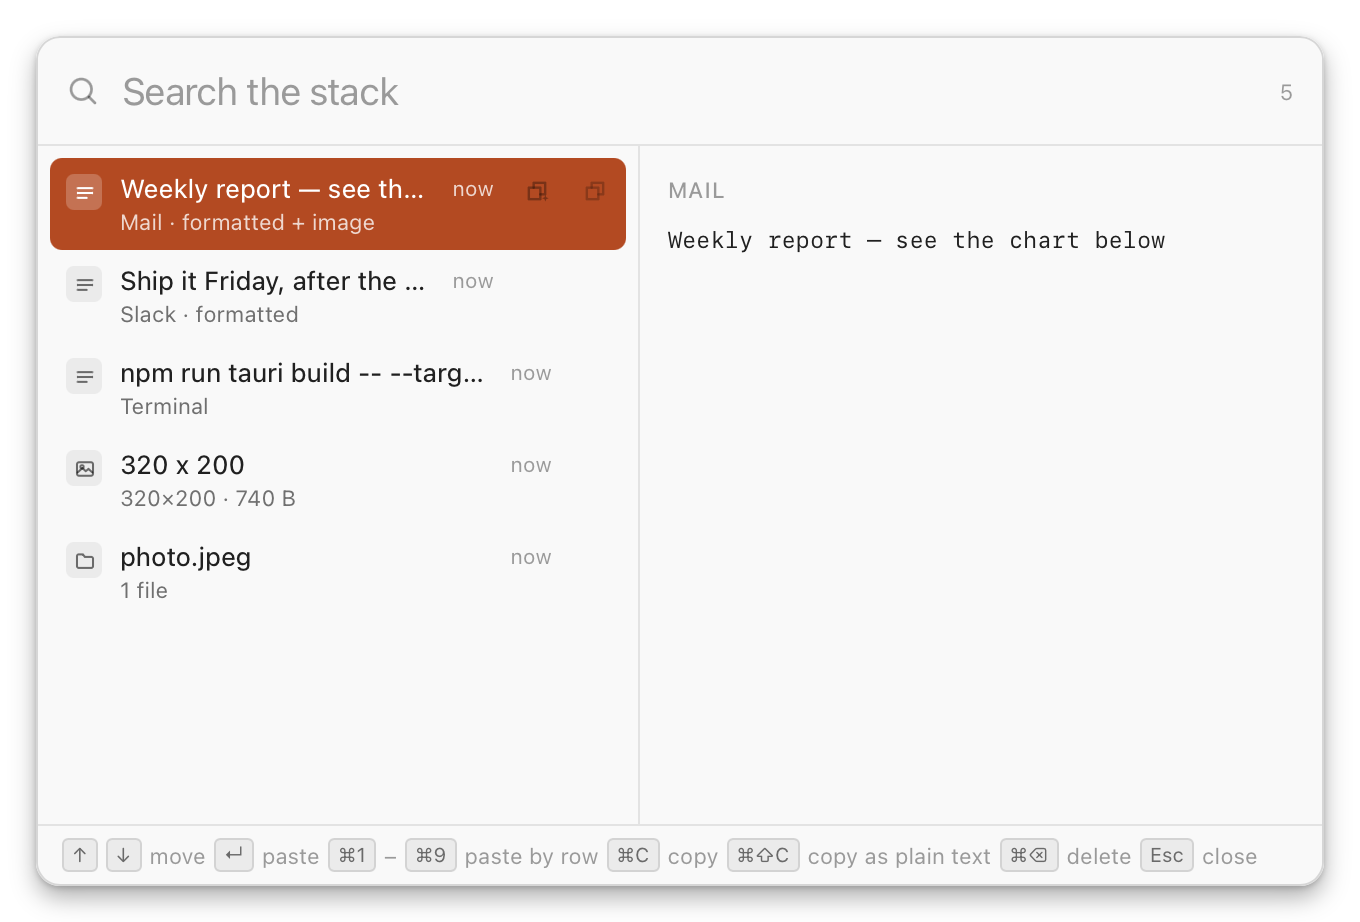
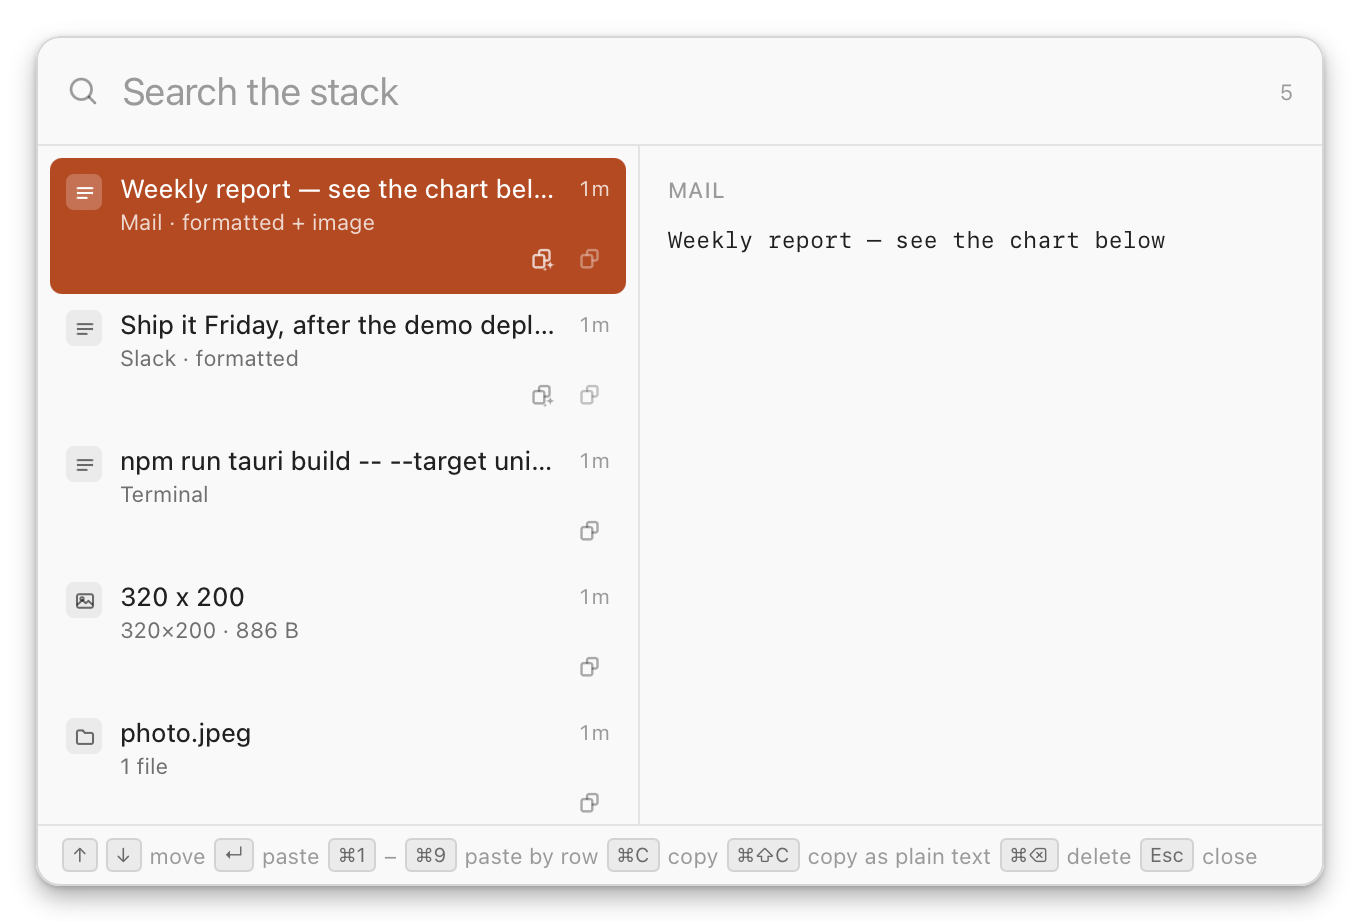
chore: release v0.6.0

diff --git a/src/styles/picker.css b/src/styles/picker.css
@@ -177,11 +177,18 @@ body {
 
 .row {
   display: flex;
-  align-items: flex-start;
-  gap: 9px;
+  flex-direction: column;
+  gap: 3px;
   padding: 7px 8px;
   border-radius: var(--radius-row);
   transition: background-color 90ms ease;
+}
+
+/* Top line: badge, content preview, meta. */
+.row__main {
+  display: flex;
+  align-items: flex-start;
+  gap: 9px;
 }
 
 .row:hover {
@@ -268,23 +275,31 @@ body {
   opacity: 0.75;
 }
 
-/* Copy-to-clipboard buttons: hidden until the row is hovered or selected,
-   the way Finder reveals row actions. They sit between the text and the
-   timestamp, so the meta column stays put as they appear. */
+/* Copy-to-clipboard buttons: anchored to the row's bottom-right, always
+   rendered whatever the length of the content above, so their position is
+   stable and they never hide a long preview behind a hover-reveal. */
+.row__actions {
+  display: flex;
+  justify-content: flex-end;
+  align-items: center;
+  gap: 2px;
+  min-height: 20px;
+  margin-top: -1px;
+}
+
 .row__copy {
   flex: none;
   display: grid;
   place-items: center;
   width: 22px;
-  height: 22px;
-  margin: -1px -2px 0 0;
+  height: 20px;
   border: none;
   border-radius: 5px;
   background: transparent;
   color: var(--text-tertiary);
-  opacity: 0;
+  opacity: 0.85;
   cursor: default;
-  transition: opacity 90ms ease, background-color 90ms ease;
+  transition: background-color 90ms ease;
 }
 
 .row__copy svg {
@@ -295,16 +310,8 @@ body {
 
 /* Both row actions share the two-sheet copy glyph; the rich one carries
    sparkles and the plain one stays bare, so the pair reads as one action with
-   two outcomes. The plain one sits a step dimmer than its sparkle twin, but
-   only once the row reveals its actions — a standalone opacity here would
-   override the hidden state above. */
-.row:hover .row__copy,
-.row[aria-selected="true"] .row__copy {
-  opacity: 0.85;
-}
-
-.row:hover .row__copy--plain,
-.row[aria-selected="true"] .row__copy--plain {
+   two outcomes. The plain one sits a step dimmer than its sparkle twin. */
+.row__copy--plain {
   opacity: 0.6;
 }
 
@@ -314,23 +321,34 @@ body {
   opacity: 1;
 }
 
+/* The selected row is an accent block, so its always-visible buttons switch
+   to white to stay legible on it. */
+.row[aria-selected="true"] .row__copy {
+  color: rgba(255, 255, 255, 0.85);
+}
+
+.row[aria-selected="true"] .row__copy--plain {
+  color: rgba(255, 255, 255, 0.6);
+}
+
 .row[aria-selected="true"] .row__copy:hover {
   background: rgba(255, 255, 255, 0.22);
   color: #fff;
 }
 
-/* Copy confirmed: a green pulse on the button that was clicked. Animates
-   box-shadow and colour only — never opacity, whose hidden/revealed states
-   above are load-bearing — so it plays cleanly whatever the row's state.
+/* Copy confirmed: an orange pulse on the button that was clicked, using the
+   app's accent. Animates box-shadow and colour only — never opacity, which
+   is load-bearing for the plain/rich pair — so it plays cleanly whatever
+   the row's state.
    Class-based rather than :active, which would end before the IPC round
    trip resolves. */
 @keyframes copy-flash {
   0% {
-    box-shadow: 0 0 0 0 rgba(52, 199, 89, 0.55);
-    color: #34c759;
+    box-shadow: 0 0 0 0 rgba(194, 65, 12, 0.55);
+    color: var(--accent);
   }
   100% {
-    box-shadow: 0 0 0 7px rgba(52, 199, 89, 0);
+    box-shadow: 0 0 0 7px rgba(194, 65, 12, 0);
     color: var(--text-tertiary);
   }
 }
@@ -342,11 +360,11 @@ body {
 @media (prefers-color-scheme: dark) {
   @keyframes copy-flash {
     0% {
-      box-shadow: 0 0 0 0 rgba(48, 209, 88, 0.55);
-      color: #30d158;
+      box-shadow: 0 0 0 0 rgba(221, 91, 22, 0.55);
+      color: var(--accent);
     }
     100% {
-      box-shadow: 0 0 0 7px rgba(48, 209, 88, 0);
+      box-shadow: 0 0 0 7px rgba(221, 91, 22, 0);
       color: var(--text-tertiary);
     }
   }

diff --git a/src/picker.ts b/src/picker.ts
@@ -155,14 +155,23 @@ function renderList(): void {
     row.setAttribute("aria-selected", String(index === selected));
     row.dataset.index = String(index);
 
+    // Top line: badge, content preview, meta. The preview is truncated by
+    // CSS for display only — it is never the copy source, which is always
+    // the stored payload fetched by id.
+    const main = el("div", "row__main");
+
     const badge = el("span", `row__badge row__badge--${item.kind}`);
     badge.append((KIND_ICON[item.kind] ?? KIND_ICON.text)());
-    row.append(badge);
+    main.append(badge);
 
     const text = el("span", "row__text");
     text.append(el("span", "row__title", item.preview));
     text.append(el("span", "row__sub", subtitleFor(item)));
-    row.append(text);
+    main.append(text);
+
+    // Bottom line: the copy actions, anchored right and always visible
+    // whatever the length of the content above.
+    const actions = el("div", "row__actions");
 
     // Copy-only action: puts the item on the clipboard without pasting. On a
     // formatted text row this is the rich variant, marked with sparkles.
@@ -178,7 +187,7 @@ function renderList(): void {
       event.stopPropagation();
       void copyToClipboard(index, "rich", copy);
     });
-    row.append(copy);
+    actions.append(copy);
 
     // Second command for text that captured formatting: the same payload
     // stripped to the plain string (drops colour, fonts, inline images). Same
@@ -196,11 +205,10 @@ function renderList(): void {
         event.stopPropagation();
         void copyToClipboard(index, "plain", plain);
       });
-      row.append(plain);
+      actions.append(plain);
     }
 
-    // Age/pin meta last, so the copy actions sit between the text and the
-    // timestamp and the row's right edge stays a stable, static column.
+    // Age/pin meta stays on the top line's right edge, above the actions.
     const meta = el("span", "row__meta");
     if (item.pinned) {
       const pin = document.createElementNS("http://www.w3.org/2000/svg", "svg");
@@ -214,7 +222,10 @@ function renderList(): void {
       meta.append(pin);
     }
     meta.append(el("span", undefined, formatAgo(item.createdAt)));
-    row.append(meta);
+    main.append(meta);
+
+    row.append(main);
+    row.append(actions);
 
     resultsEl.append(row);
   });

diff --git a/src/styles/settings.css b/src/styles/settings.css
@@ -24,6 +24,11 @@
   --control-bg: #ffffff;
   --control-shine: rgba(255, 255, 255, 0.9);
 
+  /* Button fills must stand apart from the vibrancy behind them
+     (WCAG 1.4.11), so the fill is a visible gray, not near-white. */
+  --button-bg: #d9d9db;
+  --button-shine: #f3f3f4;
+
   --radius-group: 10px;
   --radius-control: 6px;
 
@@ -48,6 +53,9 @@
     --control-border: rgba(255, 255, 255, 0.2);
     --control-bg: rgba(255, 255, 255, 0.14);
     --control-shine: rgba(255, 255, 255, 0.08);
+
+    --button-bg: rgba(255, 255, 255, 0.22);
+    --button-shine: rgba(255, 255, 255, 0.16);
   }
 }
 
@@ -231,8 +239,8 @@ input::placeholder {
   padding: 4px 12px;
   border: 1px solid var(--control-border);
   border-radius: 6px;
-  background: linear-gradient(to bottom, var(--control-shine), var(--control-bg));
-  background-color: var(--control-bg);
+  background: linear-gradient(to bottom, var(--button-shine), var(--button-bg));
+  background-color: var(--button-bg);
   color: var(--text);
   font-family: inherit;
   font-size: 12.5px;

diff --git a/src-tauri/src/tray.rs b/src-tauri/src/tray.rs
@@ -63,13 +63,77 @@ pub fn build(app: &AppHandle) -> tauri::Result<()> {
     Ok(())
 }
 
-/// Reflect the paused state in the menu label.
-pub fn set_pause_label(_app: &AppHandle, paused: bool) {
+/// Reflect the paused state in the menu label and dim the tray icon to half
+/// opacity while capture is paused, so the state is visible at a glance.
+pub fn set_pause_label(app: &AppHandle, paused: bool) {
     if let Ok(guard) = PAUSE_ITEM.lock() {
         if let Some(item) = guard.as_ref() {
             let _ = item.set_text(if paused { LABEL_RESUME } else { LABEL_PAUSE });
         }
     }
+    if let Some(tray) = app.tray_by_id(TRAY_ID) {
+        let icon = if paused {
+            dimmed_icon()
+        } else {
+            Image::from_bytes(TRAY_PNG).unwrap_or_else(|_| placeholder_icon())
+        };
+        if let Err(err) = tray.set_icon(Some(icon)) {
+            eprintln!("[clipstack] could not update the tray icon: {err}");
+        }
+        // set_icon replaces the NSImage; re-assert the template flag so the
+        // icon keeps following the menu bar appearance in light and dark mode.
+        let _ = tray.set_icon_as_template(true);
+    }
+}
+
+/// The bundled tray PNG with every alpha value halved (0.5 opacity), used
+/// while capture is paused. Computed once and cached.
+fn dimmed_icon() -> Image<'static> {
+    static DIMMED: std::sync::OnceLock<Vec<u8>> = std::sync::OnceLock::new();
+    let bytes = DIMMED.get_or_init(|| {
+        let decoded = match image::load_from_memory(TRAY_PNG) {
+            Ok(img) => img.to_rgba8(),
+            Err(err) => {
+                eprintln!("[clipstack] could not decode the tray icon: {err}");
+                return Vec::new();
+            }
+        };
+        let mut rgba = decoded;
+        for pixel in rgba.pixels_mut() {
+            pixel[3] /= 2;
+        }
+        let mut out = std::io::Cursor::new(Vec::new());
+        if rgba
+            .write_to(&mut out, image::ImageFormat::Png)
+            .is_err()
+        {
+            return Vec::new();
+        }
+        out.into_inner()
+    });
+    if bytes.is_empty() {
+        return placeholder_dimmed();
+    }
+    Image::from_bytes(bytes).unwrap_or_else(|_| placeholder_dimmed())
+}
+
+/// Fallback dimmed icon when the bundled PNG cannot be processed.
+fn placeholder_dimmed() -> Image<'static> {
+    let size = 18u32;
+    let mut rgba = vec![0u8; (size * size * 4) as usize];
+    for y in 0..size {
+        for x in 0..size {
+            let edge = x < 2 || y < 2 || x >= size - 2 || y >= size - 2;
+            let i = ((y * size + x) as usize) * 4;
+            if edge {
+                rgba[i] = 0;
+                rgba[i + 1] = 0;
+                rgba[i + 2] = 0;
+                rgba[i + 3] = 100; // half of the normal placeholder's alpha
+            }
+        }
+    }
+    Image::new_owned(rgba, size, size)
 }
 
 fn toggle_pause(app: AppHandle) {
